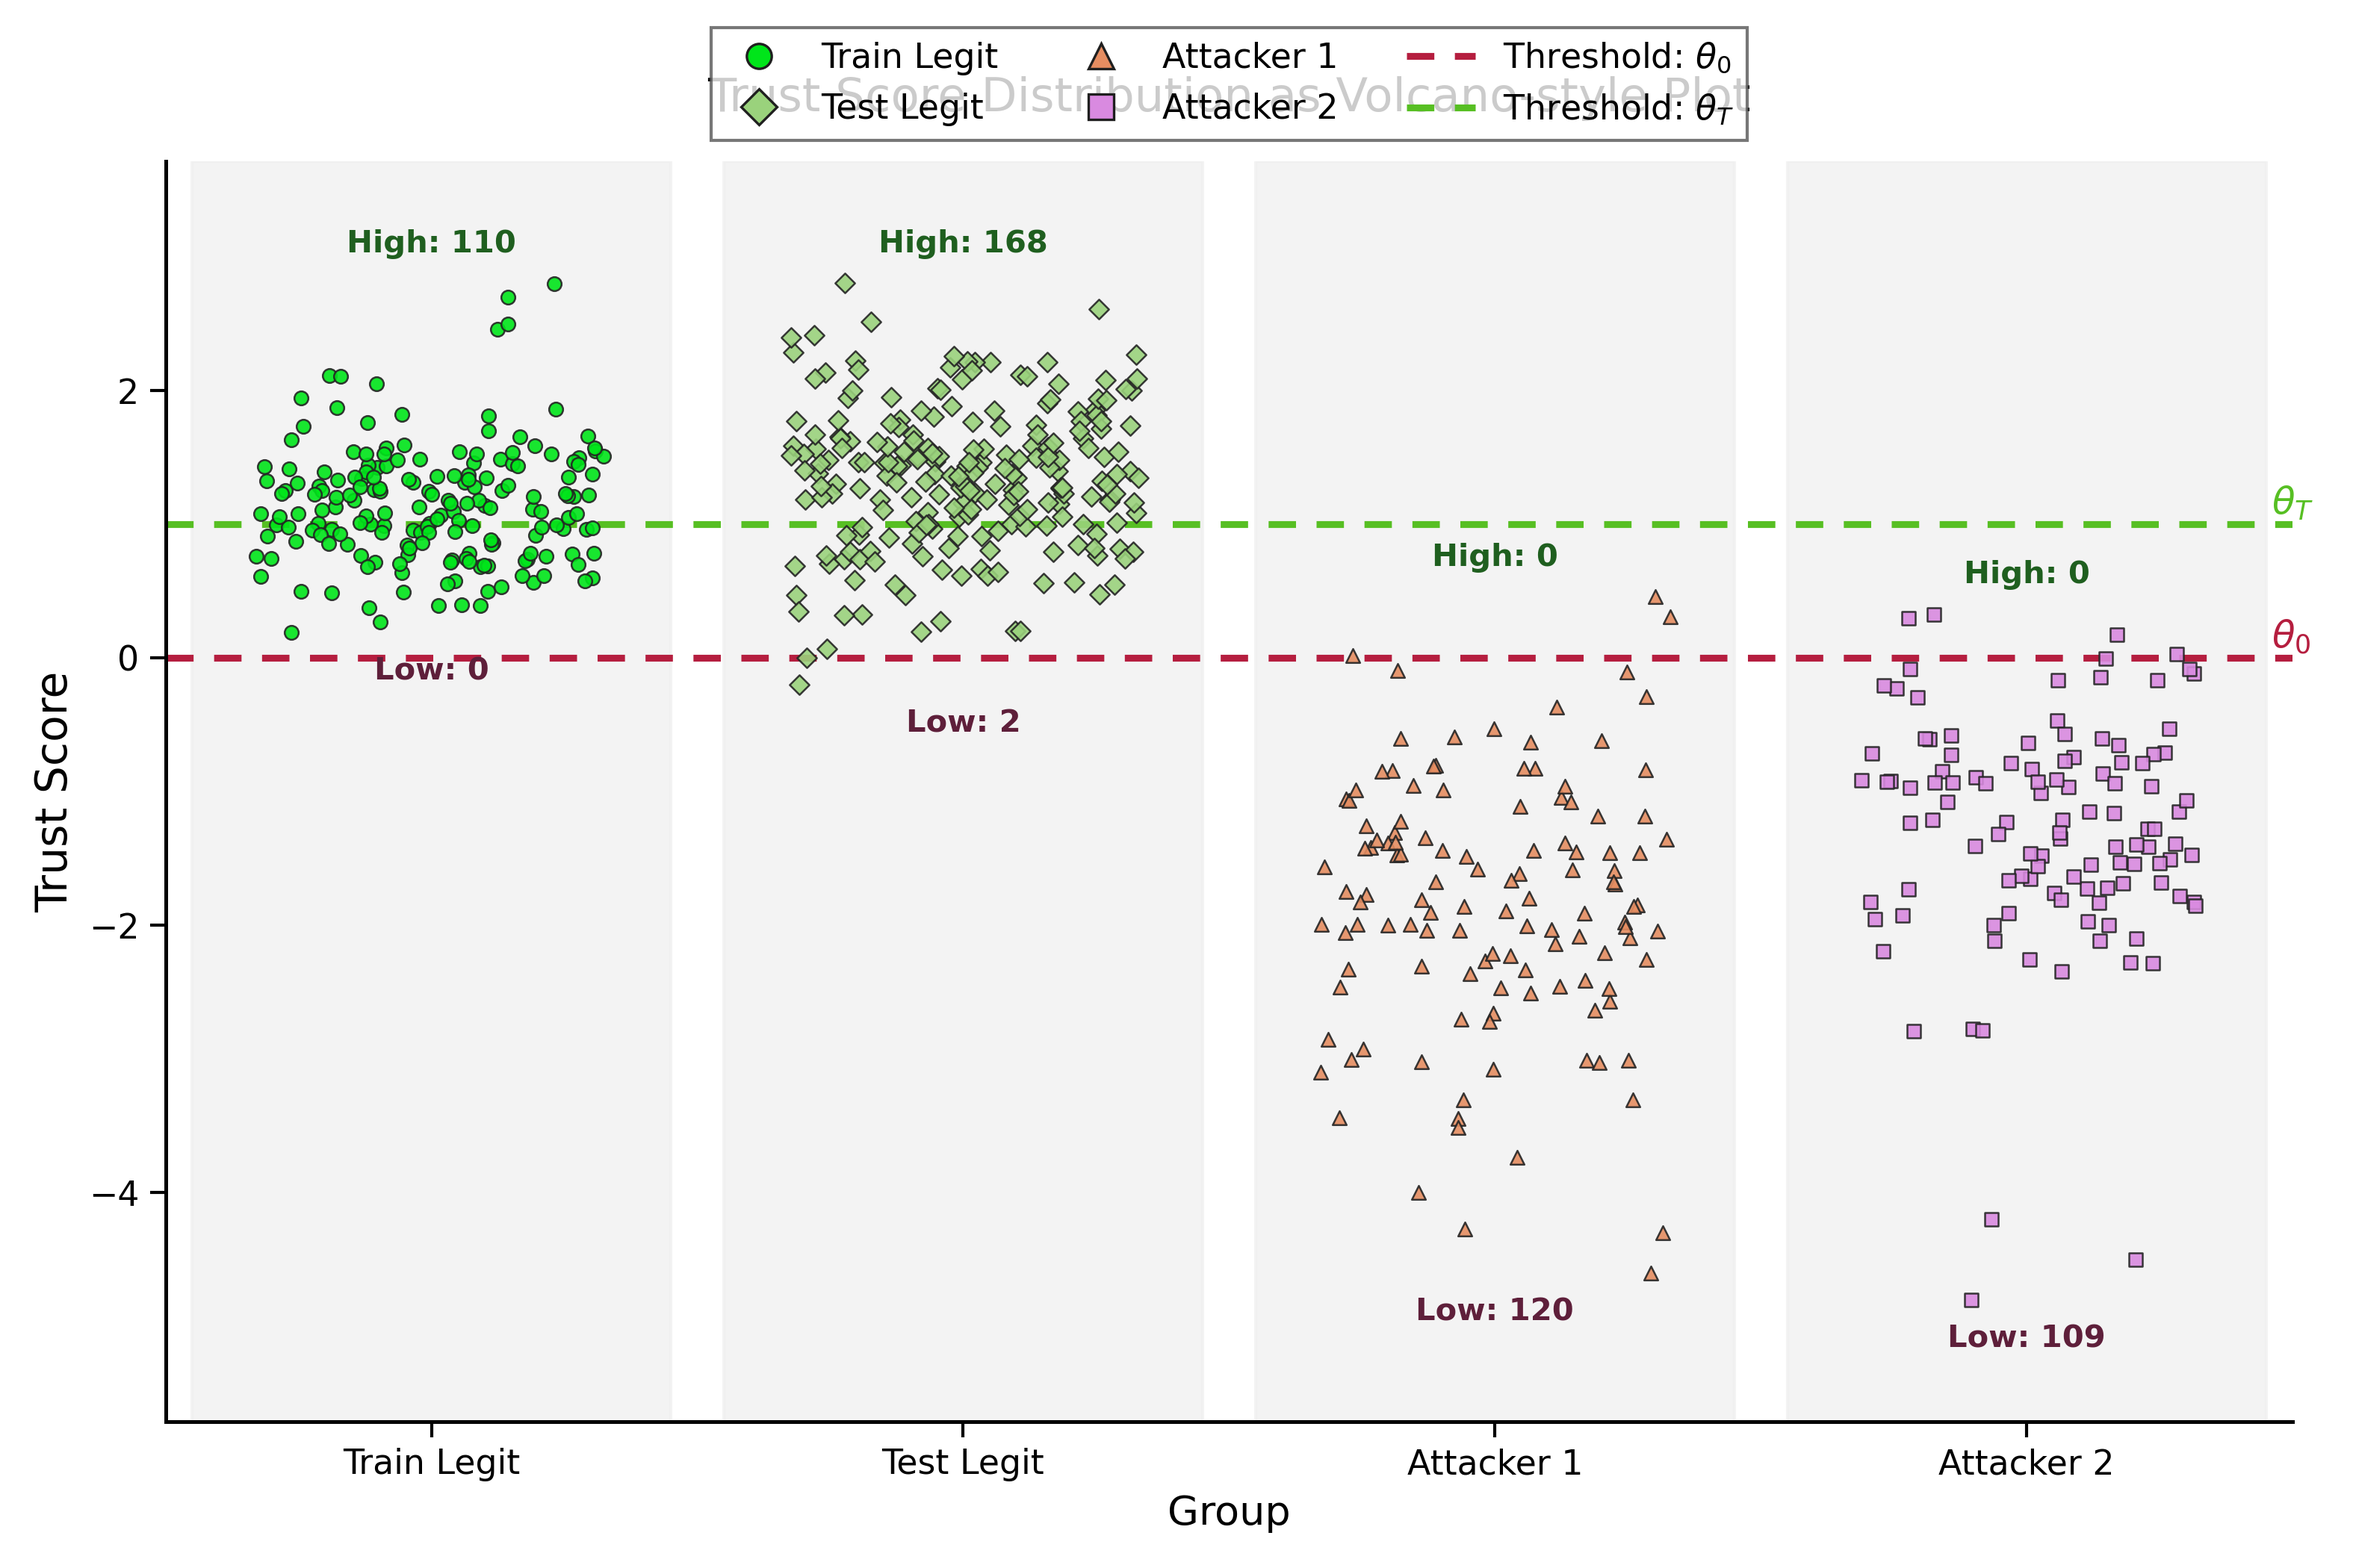
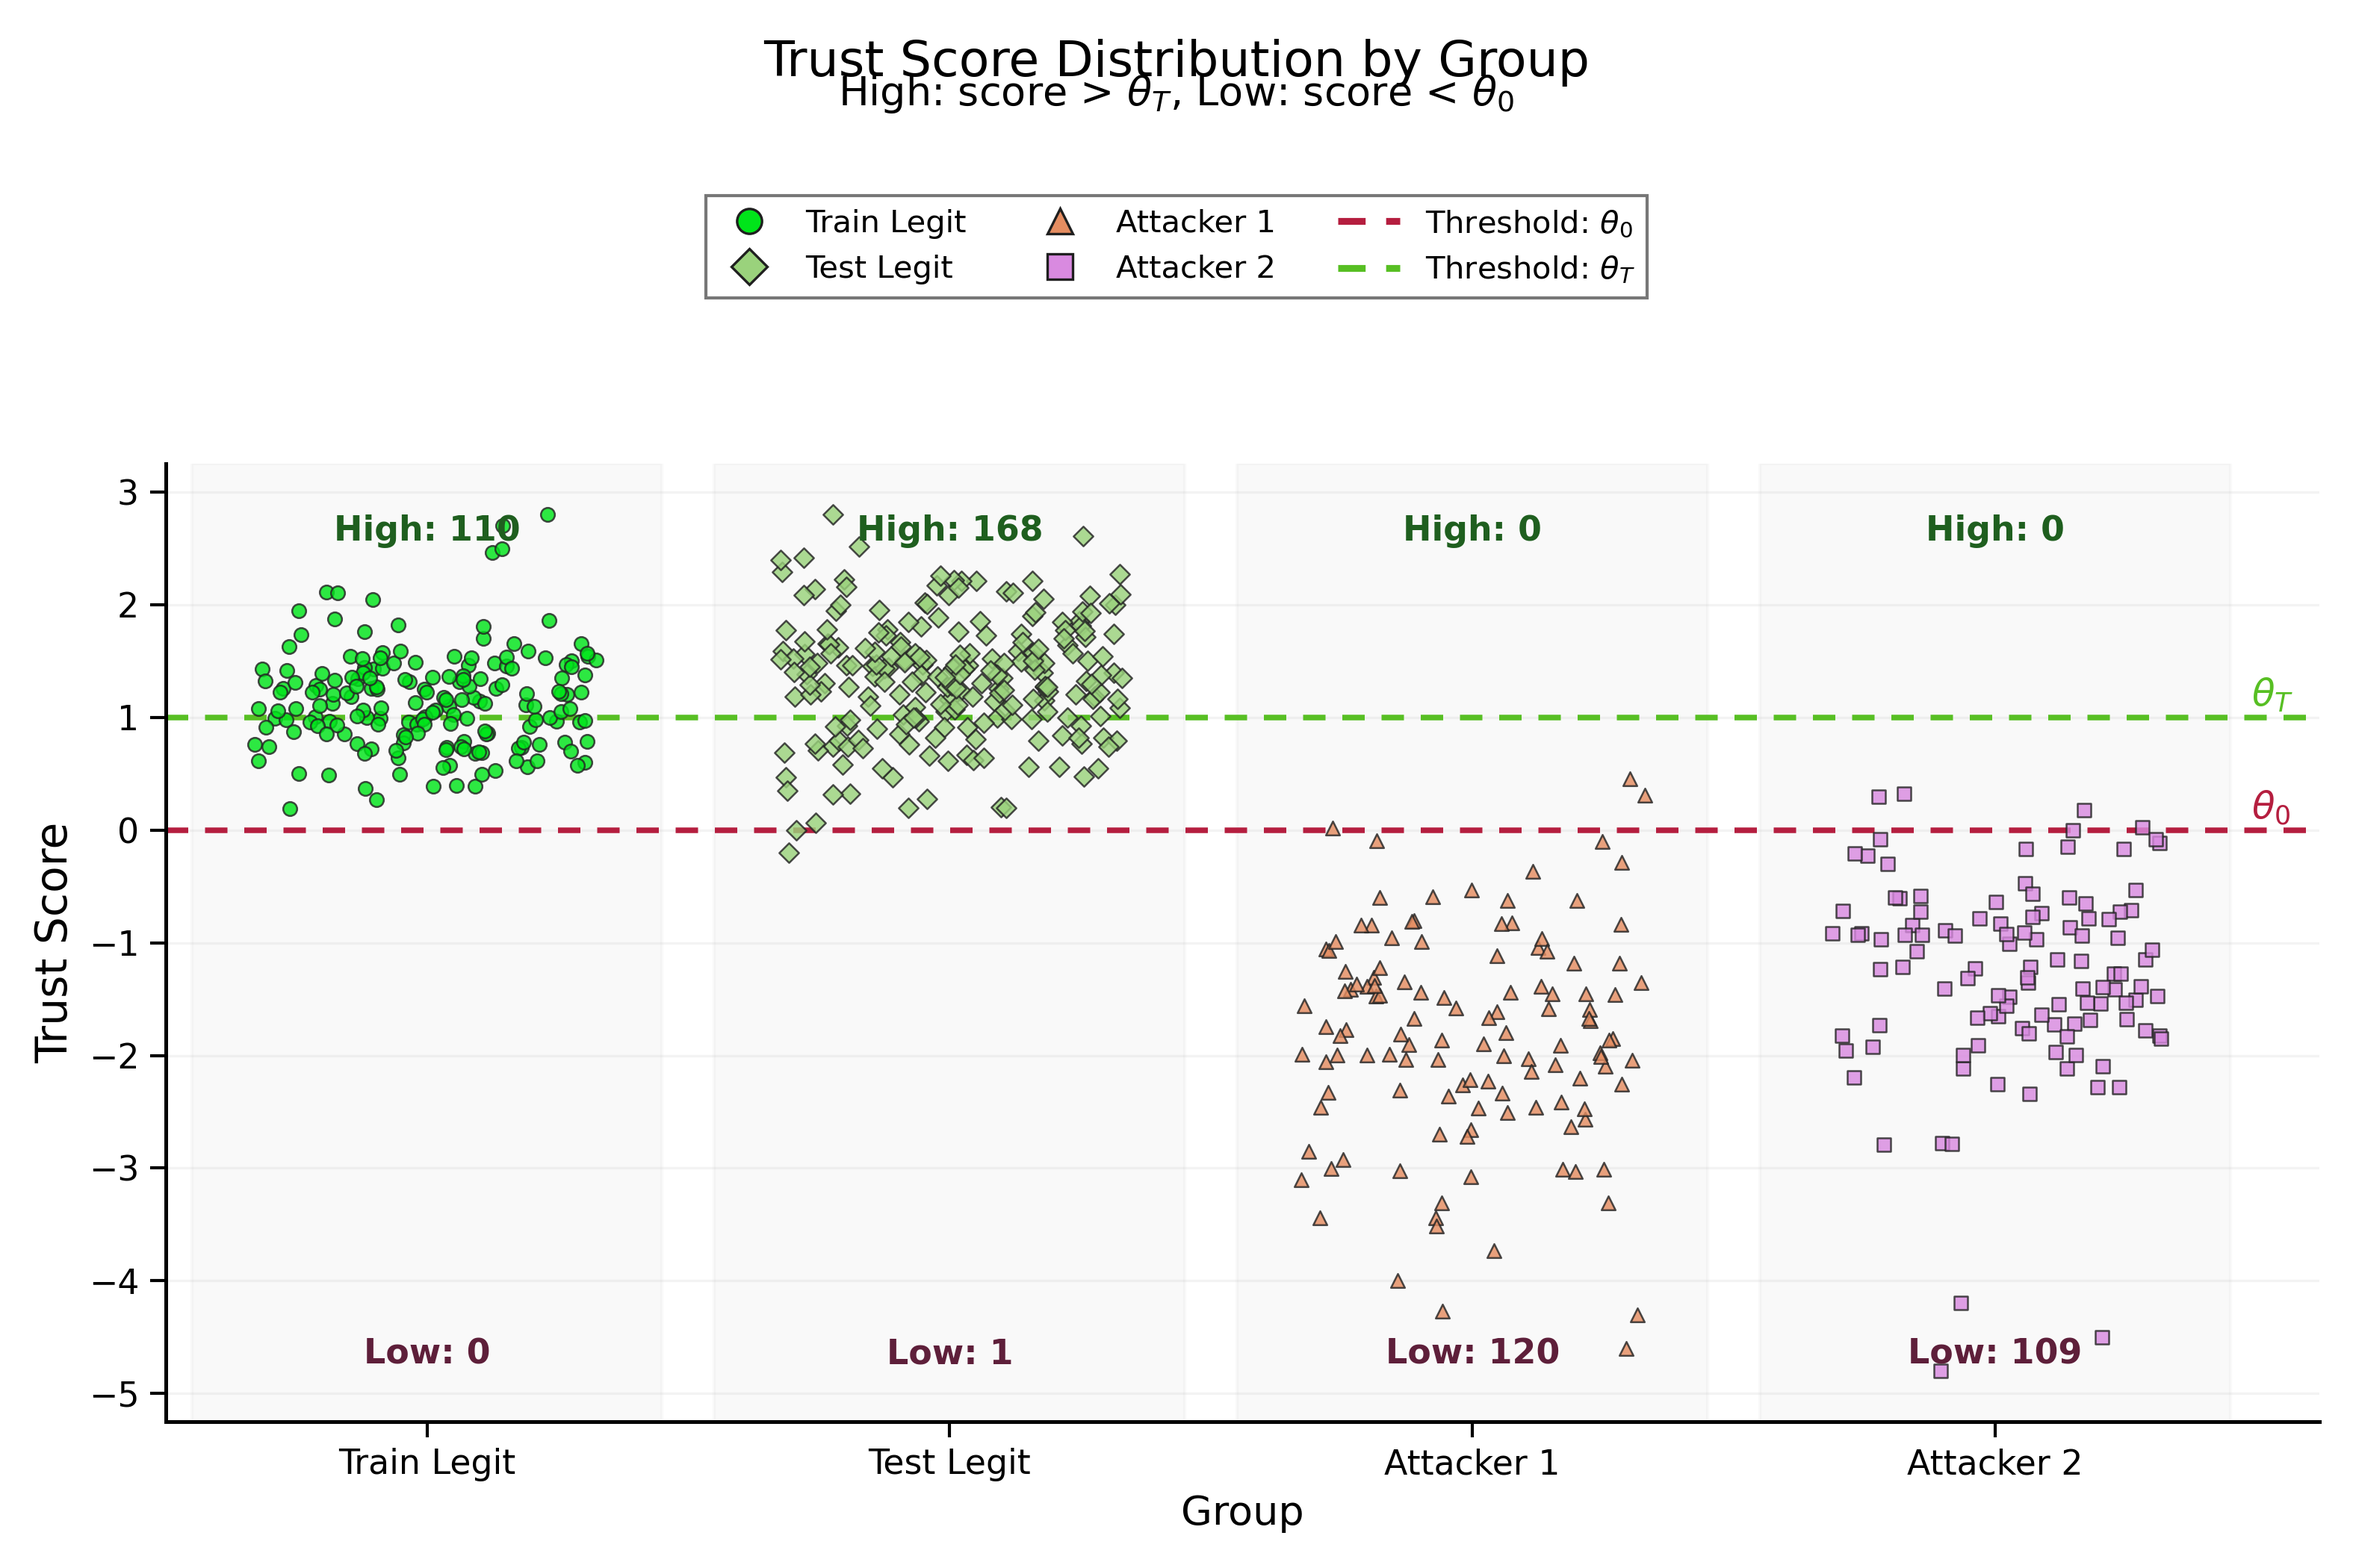
Enhance volcano plot script with additional parameters and improved aesthetics

diff --git a/grouped volcano plot/src/plot_trust_volcano_style.py b/grouped volcano plot/src/plot_trust_volcano_style.py
@@ -31,8 +31,10 @@ def parse_args() -> argparse.Namespace:
     parser.add_argument("--theta0", type=float, default=0.0, help="Lower trust threshold")
     parser.add_argument("--thetaT", type=float, default=1.0, help="Upper trust threshold")
     parser.add_argument("--point-size", type=float, default=20.0)
-    parser.add_argument("--alpha", type=float, default=0.9)
+    parser.add_argument("--alpha", type=float, default=0.82)
     parser.add_argument("--jitter", type=float, default=0.33)
+    parser.add_argument("--bg-alpha", type=float, default=0.05)
+    parser.add_argument("--title", type=str, default="Trust Score Distribution by Group")
     parser.add_argument("--show-thresholds", action="store_true", default=True)
     parser.add_argument("--hide-thresholds", action="store_true")
     parser.add_argument("--show-counts", action="store_true", default=True)
@@ -48,7 +50,7 @@ def _validate_columns(df: pd.DataFrame) -> None:
         raise ValueError(f"Missing required columns: {sorted(missing)}")
 
 
-def _make_legend(ax: plt.Axes, show_thresholds: bool) -> None:
+def _make_legend(fig: plt.Figure, show_thresholds: bool) -> None:
     handles: list[Line2D] = []
     for g in GROUP_ORDER:
         handles.append(
@@ -74,15 +76,15 @@ def _make_legend(ax: plt.Axes, show_thresholds: bool) -> None:
             ]
         )
 
-    ax.legend(
+    fig.legend(
         handles=handles,
         ncol=3,
         loc="upper center",
-        bbox_to_anchor=(0.5, 1.12),
+        bbox_to_anchor=(0.5, 0.885),
         frameon=True,
         fancybox=False,
         edgecolor="#555555",
-        fontsize=11,
+        fontsize=10,
     )
 
 
@@ -94,6 +96,8 @@ def draw_plot(
     point_size: float,
     alpha: float,
     jitter: float,
+    bg_alpha: float,
+    title: str,
     show_thresholds: bool,
     show_counts: bool,
     dpi: int,
@@ -103,14 +107,20 @@ def draw_plot(
     x_map = {g: i + 1 for i, g in enumerate(GROUP_ORDER)}
     rng = np.random.default_rng(2026)
 
-    y_min = float(df["trust_score"].min())
-    y_max = float(df["trust_score"].max())
-    pad = max((y_max - y_min) * 0.12, 0.5)
-    ax.set_ylim(y_min - pad, y_max + pad)
+    y_min_data = float(df["trust_score"].min())
+    y_max_data = float(df["trust_score"].max())
+    y_span = y_max_data - y_min_data
+    y_pad = max(0.25 * y_span * 0.2, 0.45)
+    y_min = y_min_data - y_pad
+    y_max = y_max_data + y_pad
+    ax.set_ylim(y_min, y_max)
+
+    high_y = y_max - 0.45
+    low_y = y_min + 0.45
 
     for g in GROUP_ORDER:
         x = x_map[g]
-        ax.axvspan(x - 0.45, x + 0.45, color="#efefef", alpha=0.7, zorder=0)
+        ax.axvspan(x - 0.45, x + 0.45, color="#8f8f8f", alpha=bg_alpha, zorder=0)
 
     for g in GROUP_ORDER:
         dg = df[df["group"] == g].copy()
@@ -130,52 +140,61 @@ def draw_plot(
         )
 
         if show_counts:
-            high = int((dg["trust_score"] >= thetaT).sum())
-            low = int((dg["trust_score"] <= theta0).sum())
+            high = int((dg["trust_score"] > thetaT).sum())
+            low = int((dg["trust_score"] < theta0).sum())
             ax.text(
                 x_map[g],
-                dg["trust_score"].max() + pad * 0.20,
+                high_y,
                 f"High: {high}",
                 ha="center",
-                va="bottom",
-                fontsize=10,
+                va="top",
+                fontsize=11,
                 color="#1f5f1f",
                 fontweight="bold",
                 zorder=5,
             )
             ax.text(
                 x_map[g],
-                dg["trust_score"].min() - pad * 0.20,
+                low_y,
                 f"Low: {low}",
                 ha="center",
-                va="top",
-                fontsize=10,
+                va="bottom",
+                fontsize=11,
                 color="#5e1f3a",
                 fontweight="bold",
                 zorder=5,
             )
 
     if show_thresholds:
-        ax.axhline(theta0, color="#b51e3f", linestyle=(0, (4, 3)), linewidth=2.2, zorder=2)
-        ax.axhline(thetaT, color="#57bf23", linestyle=(0, (4, 3)), linewidth=2.2, zorder=2)
-        ax.text(4.46, theta0 + 0.02, r"$\theta_0$", color="#b51e3f", fontsize=12, va="bottom", ha="left")
-        ax.text(4.46, thetaT + 0.02, r"$\theta_T$", color="#57bf23", fontsize=12, va="bottom", ha="left")
+        ax.axhline(theta0, color="#b51e3f", linestyle=(0, (4, 3)), linewidth=1.8, zorder=2)
+        ax.axhline(thetaT, color="#57bf23", linestyle=(0, (4, 3)), linewidth=1.8, zorder=2)
+        ax.text(4.49, theta0 + 0.03, r"$\theta_0$", color="#b51e3f", fontsize=12, va="bottom", ha="left")
+        ax.text(4.49, thetaT + 0.03, r"$\theta_T$", color="#57bf23", fontsize=12, va="bottom", ha="left")
 
-    ax.set_xlim(0.5, len(GROUP_ORDER) + 0.5)
+    ax.set_xlim(0.5, len(GROUP_ORDER) + 0.62)
     ax.set_xticks([x_map[g] for g in GROUP_ORDER])
     ax.set_xticklabels(GROUP_ORDER, fontsize=12)
     ax.set_xlabel("Group", fontsize=13)
     ax.set_ylabel("Trust Score", fontsize=14)
-    ax.set_title("Trust Score Distribution as Volcano-style Plot", fontsize=15, pad=16)
+    fig.suptitle(title, fontsize=16, y=0.975)
+    fig.text(
+        0.5,
+        0.94,
+        r"High: score > $\theta_T$, Low: score < $\theta_0$",
+        ha="center",
+        va="center",
+        fontsize=13,
+    )
 
     ax.spines["top"].set_visible(False)
     ax.spines["right"].set_visible(False)
     ax.spines["left"].set_linewidth(1.2)
     ax.spines["bottom"].set_linewidth(1.2)
     ax.tick_params(axis="both", labelsize=11, width=1.0, length=5)
+    ax.grid(axis="y", alpha=0.15)
 
-    _make_legend(ax, show_thresholds=show_thresholds)
-    plt.tight_layout()
+    _make_legend(fig, show_thresholds=show_thresholds)
+    plt.tight_layout(rect=[0, 0, 1, 0.78])
     output_path.parent.mkdir(parents=True, exist_ok=True)
     fig.savefig(output_path, dpi=dpi)
     plt.close(fig)
@@ -201,6 +220,8 @@ def main() -> None:
         point_size=args.point_size,
         alpha=args.alpha,
         jitter=args.jitter,
+        bg_alpha=args.bg_alpha,
+        title=args.title,
         show_thresholds=show_thresholds,
         show_counts=show_counts,
         dpi=args.dpi,
